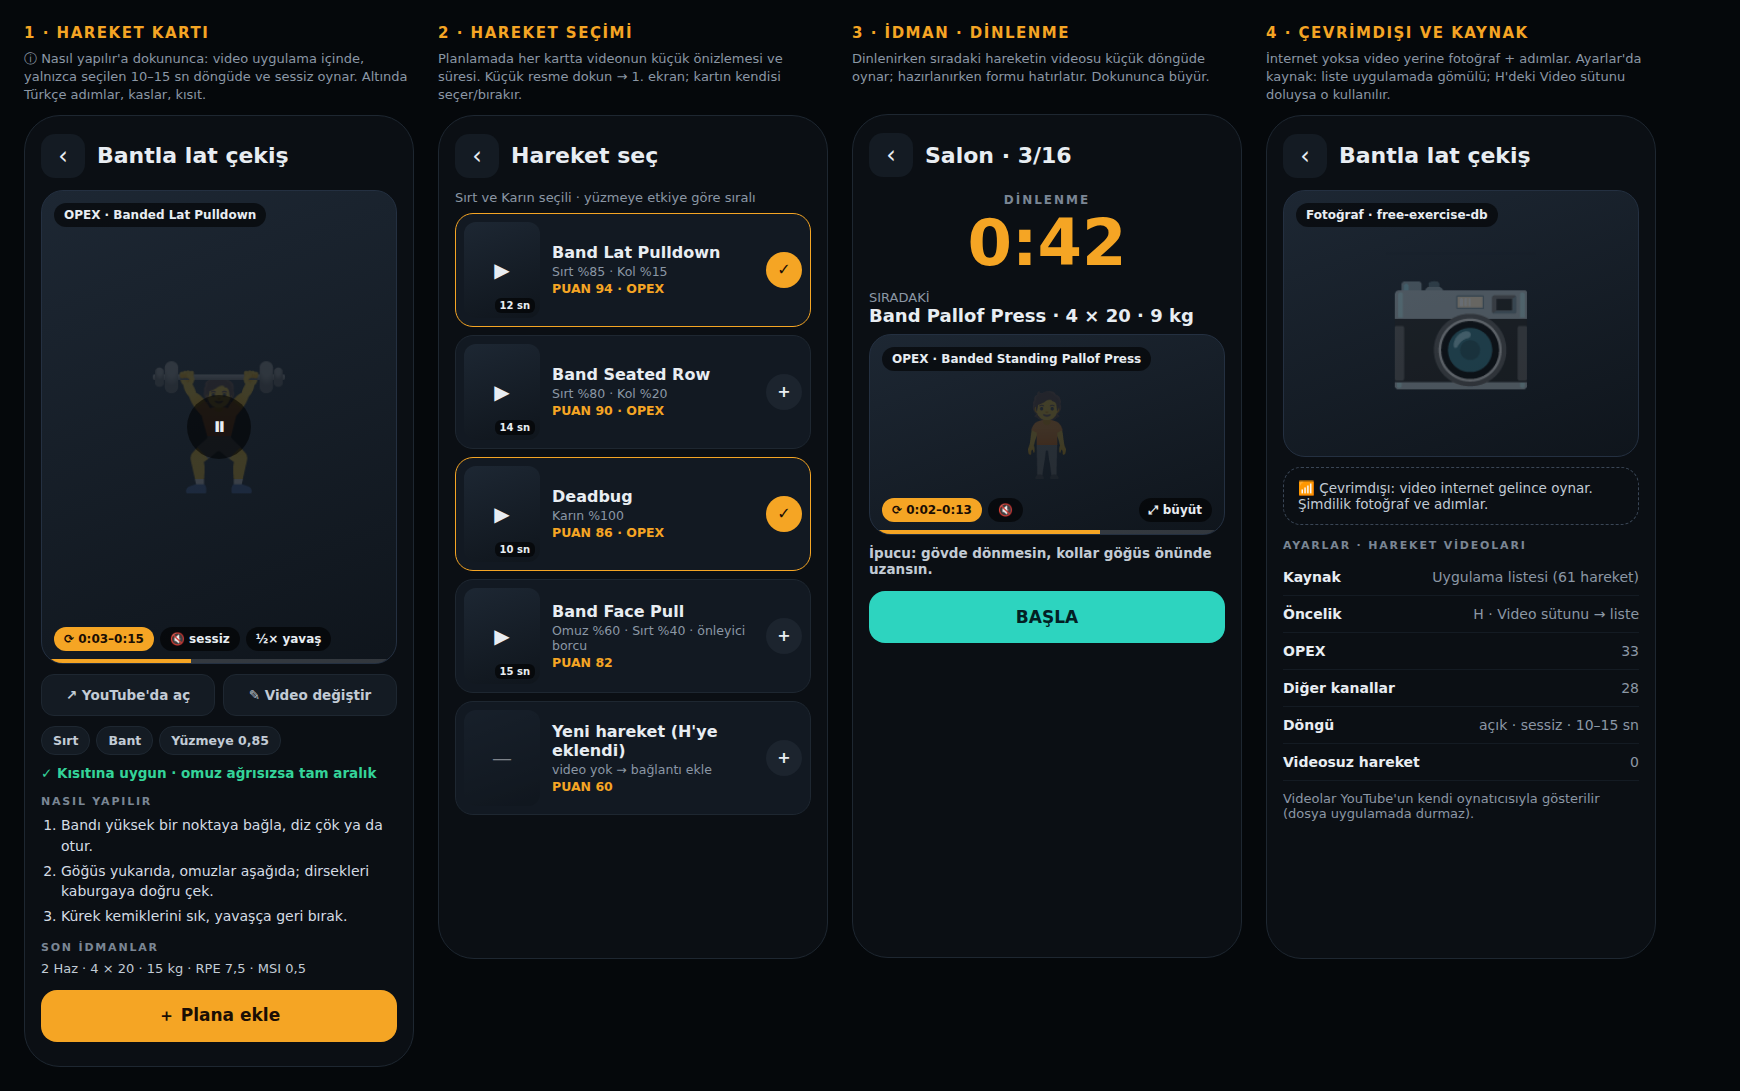
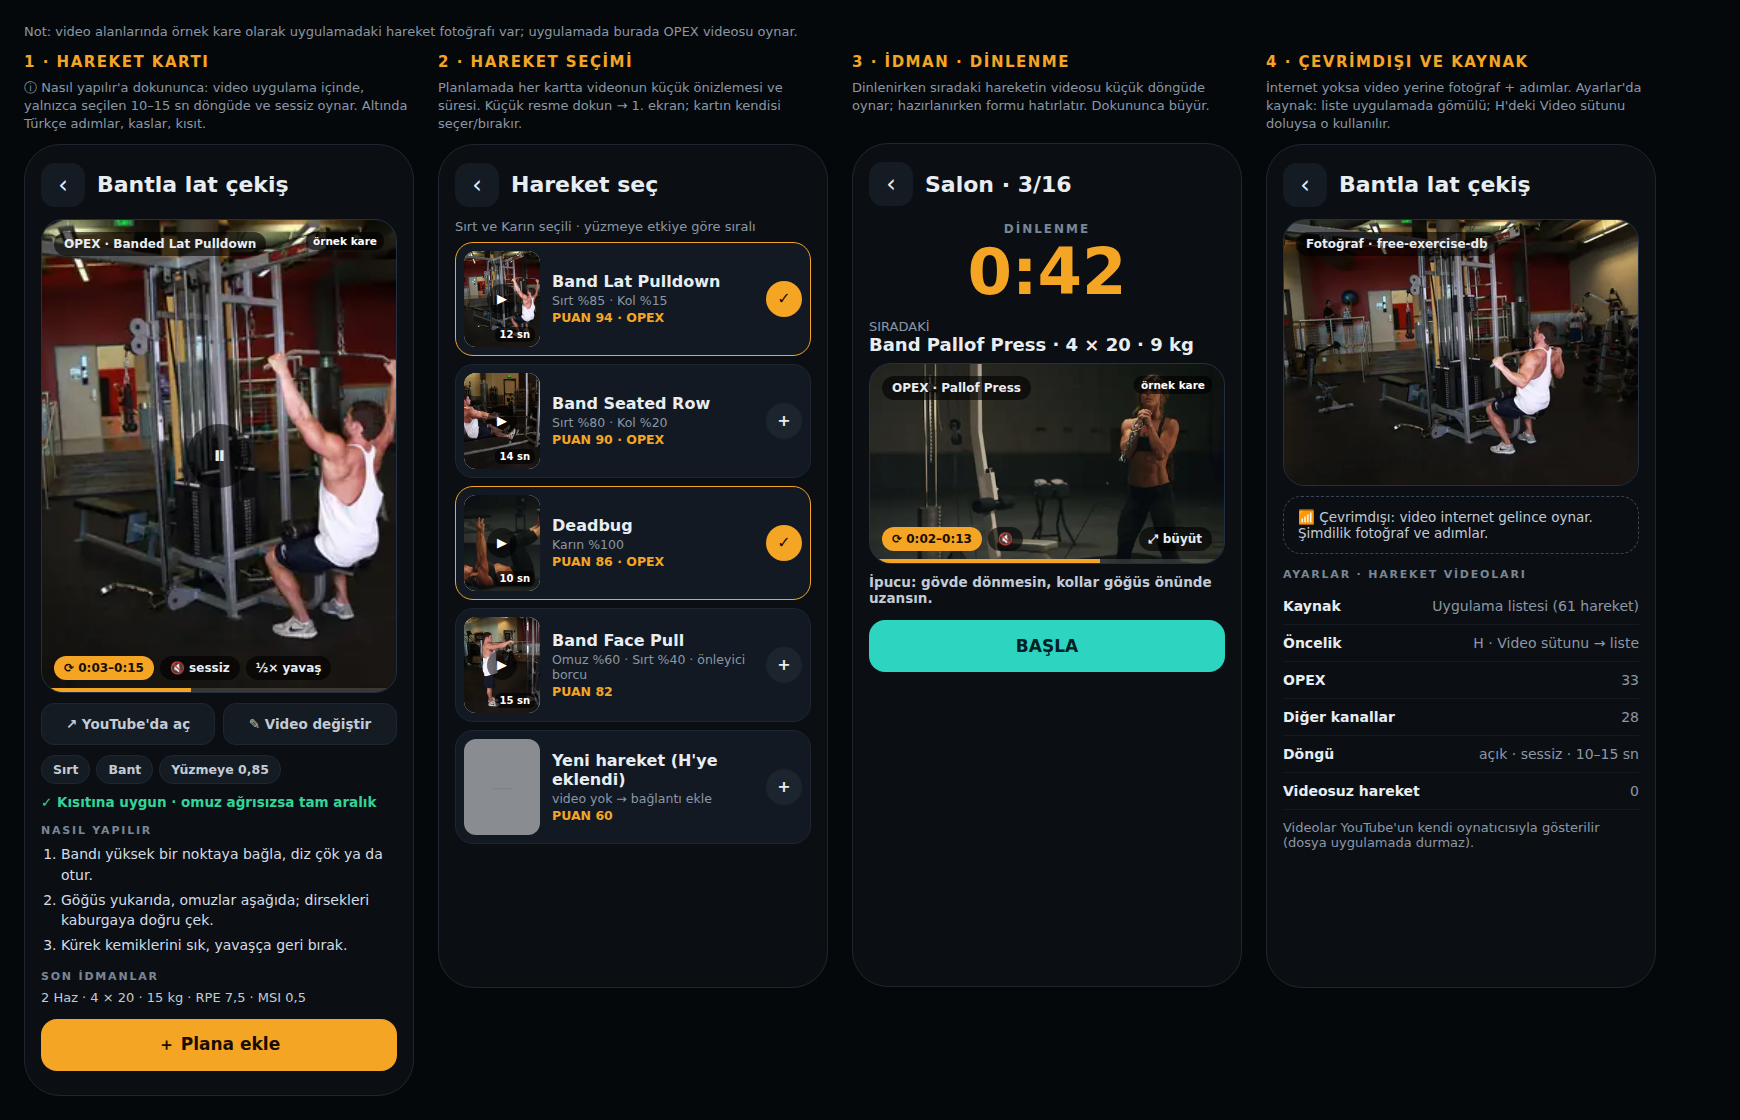
Tasarım v29: video yer tutucuları uygulamadaki gerçek hareket fotoğraflarıyla (emoji yerine)
Claude-Session: https://claude.ai/code/session_01RZy5iPaCnnfAqxewCsrLXJ

diff --git a/tasarim/v29/ornek.html b/tasarim/v29/ornek.html
@@ -30,11 +30,12 @@ body{background:#05080B;color:#E8EDF2;font-family:Archivo,system-ui,sans-serif;p
 .nx{font-size:13px;color:#8B97A5;margin-bottom:8px}.nx b{color:#E8EDF2;font-size:18px;display:block}
 .off{border:1px dashed #3A4656;border-radius:18px;padding:12px 14px;margin-top:10px;font-size:13.5px;color:#C2CBD5}
 .row{display:flex;justify-content:space-between;padding:10px 0;border-bottom:1px solid #141B23;font-size:14px}.row span{color:#8B97A5}
-</style></head><body><div class="wrap">
+.poster{position:absolute;inset:0;width:100%;height:100%;object-fit:cover;background:#fff}.th{overflow:hidden;background:#fff}.th img{position:absolute;inset:0;width:100%;height:100%;object-fit:cover}.th em{position:relative;font-style:normal;width:30px;height:30px;border-radius:15px;background:rgba(0,0,0,.55);color:#fff;display:flex;align-items:center;justify-content:center;font-size:13px}.th small{color:#fff}.note{position:absolute;right:12px;top:12px;font-size:10.5px;font-weight:700;background:rgba(0,0,0,.6);color:#fff;padding:3px 7px;border-radius:8px}
+</style></head><body><p style="font-size:13px;color:#8B97A5;margin-bottom:14px">Not: video alanlarında örnek kare olarak uygulamadaki hareket fotoğrafı var; uygulamada burada OPEX videosu oynar.</p><div class="wrap">
 
 <div><div class="cap"><h2>1 · HAREKET KARTI</h2><p>ⓘ Nasıl yapılır'a dokununca: video uygulama içinde, yalnızca seçilen 10–15 sn döngüde ve sessiz oynar. Altında Türkçe adımlar, kaslar, kısıt.</p></div>
 <div class="ph"><div class="hd"><span class="bk">‹</span><h1>Bantla lat çekiş</h1></div>
-<div class="vid"><div class="fig">🏋</div><span class="pill src">OPEX · Banded Lat Pulldown</span><div class="play">⏸</div>
+<div class="vid"><img class="poster" src="../../img/hareket/Wide-Grip_Lat_Pulldown_0.webp" alt=""><span class="pill src">OPEX · Banded Lat Pulldown</span><span class="note">örnek kare</span><div class="play">⏸</div>
 <div class="bar"><span class="pill amb">⟳ 0:03–0:15</span><span class="pill">🔇 sessiz</span><span class="pill">½× yavaş</span></div><div class="prog"><i></i></div></div>
 <div class="acts"><span class="ab">↗ YouTube'da aç</span><span class="ab">✎ Video değiştir</span></div>
 <div class="tags"><span class="ch">Sırt</span><span class="ch">Bant</span><span class="ch">Yüzmeye 0,85</span></div>
@@ -46,10 +47,10 @@ body{background:#05080B;color:#E8EDF2;font-family:Archivo,system-ui,sans-serif;p
 <div><div class="cap"><h2>2 · HAREKET SEÇİMİ</h2><p>Planlamada her kartta videonun küçük önizlemesi ve süresi. Küçük resme dokun → 1. ekran; kartın kendisi seçer/bırakır.</p></div>
 <div class="ph"><div class="hd"><span class="bk">‹</span><h1>Hareket seç</h1></div>
 <p class="nx">Sırt ve Karın seçili · yüzmeye etkiye göre sıralı</p>
-<div class="sx on"><span class="th">▶<small>12 sn</small></span><span class="sm"><b>Band Lat Pulldown</b><small>Sırt %85 · Kol %15</small><small class="pu">PUAN 94 · OPEX</small></span><span class="add">✓</span></div>
-<div class="sx"><span class="th">▶<small>14 sn</small></span><span class="sm"><b>Band Seated Row</b><small>Sırt %80 · Kol %20</small><small class="pu">PUAN 90 · OPEX</small></span><span class="add">+</span></div>
-<div class="sx on"><span class="th">▶<small>10 sn</small></span><span class="sm"><b>Deadbug</b><small>Karın %100</small><small class="pu">PUAN 86 · OPEX</small></span><span class="add">✓</span></div>
-<div class="sx"><span class="th">▶<small>15 sn</small></span><span class="sm"><b>Band Face Pull</b><small>Omuz %60 · Sırt %40 · önleyici borcu</small><small class="pu">PUAN 82</small></span><span class="add">+</span></div>
+<div class="sx on"><span class="th"><img src="../../img/hareket/Wide-Grip_Lat_Pulldown_0.webp" alt=""><em>▶</em><small>12 sn</small></span><span class="sm"><b>Band Lat Pulldown</b><small>Sırt %85 · Kol %15</small><small class="pu">PUAN 94 · OPEX</small></span><span class="add">✓</span></div>
+<div class="sx"><span class="th"><img src="../../img/hareket/Seated_Cable_Rows_0.webp" alt=""><em>▶</em><small>14 sn</small></span><span class="sm"><b>Band Seated Row</b><small>Sırt %80 · Kol %20</small><small class="pu">PUAN 90 · OPEX</small></span><span class="add">+</span></div>
+<div class="sx on"><span class="th"><img src="../../img/hareket/Dead_Bug_0.webp" alt=""><em>▶</em><small>10 sn</small></span><span class="sm"><b>Deadbug</b><small>Karın %100</small><small class="pu">PUAN 86 · OPEX</small></span><span class="add">✓</span></div>
+<div class="sx"><span class="th"><img src="../../img/hareket/Straight-Arm_Pulldown_0.webp" alt=""><em>▶</em><small>15 sn</small></span><span class="sm"><b>Band Face Pull</b><small>Omuz %60 · Sırt %40 · önleyici borcu</small><small class="pu">PUAN 82</small></span><span class="add">+</span></div>
 <div class="sx"><span class="th" style="opacity:.5">—</span><span class="sm"><b>Yeni hareket (H'ye eklendi)</b><small>video yok → bağlantı ekle</small><small class="pu">PUAN 60</small></span><span class="add">+</span></div>
 </div></div>
 
@@ -57,14 +58,14 @@ body{background:#05080B;color:#E8EDF2;font-family:Archivo,system-ui,sans-serif;p
 <div class="ph"><div class="hd"><span class="bk">‹</span><h1>Salon · 3/16</h1></div>
 <div class="rest"><small>DİNLENME</small><b>0:42</b></div>
 <p class="nx">SIRADAKİ<b>Band Pallof Press · 4 × 20 · 9 kg</b></p>
-<div class="vid yatay"><div class="fig" style="font-size:80px">🧍</div><span class="pill src">OPEX · Banded Standing Pallof Press</span>
+<div class="vid yatay"><img class="poster" src="../../img/hareket/Pallof_Press_0.webp" alt=""><span class="pill src">OPEX · Pallof Press</span><span class="note">örnek kare</span>
 <div class="bar"><span class="pill amb">⟳ 0:02–0:13</span><span class="pill">🔇</span><span class="pill" style="margin-left:auto">⤢ büyüt</span></div><div class="prog"><i style="width:65%"></i></div></div>
 <p class="ok" style="color:#C2CBD5;font-weight:600">İpucu: gövde dönmesin, kollar göğüs önünde uzansın.</p>
 <div class="btn" style="background:#2DD4BF;color:#032024">BAŞLA</div></div></div>
 
 <div><div class="cap"><h2>4 · ÇEVRİMDIŞI VE KAYNAK</h2><p>İnternet yoksa video yerine fotoğraf + adımlar. Ayarlar'da kaynak: liste uygulamada gömülü; H'deki Video sütunu doluysa o kullanılır.</p></div>
 <div class="ph"><div class="hd"><span class="bk">‹</span><h1>Bantla lat çekiş</h1></div>
-<div class="vid" style="aspect-ratio:4/3"><div class="fig" style="opacity:.35">📷</div><span class="pill src">Fotoğraf · free-exercise-db</span></div>
+<div class="vid" style="aspect-ratio:4/3"><img class="poster" src="../../img/hareket/Wide-Grip_Lat_Pulldown_1.webp" alt=""><span class="pill src">Fotoğraf · free-exercise-db</span></div>
 <div class="off">📶 Çevrimdışı: video internet gelince oynar. Şimdilik fotoğraf ve adımlar.</div>
 <p class="lb">AYARLAR · HAREKET VİDEOLARI</p>
 <div class="row"><b>Kaynak</b><span>Uygulama listesi (61 hareket)</span></div>
